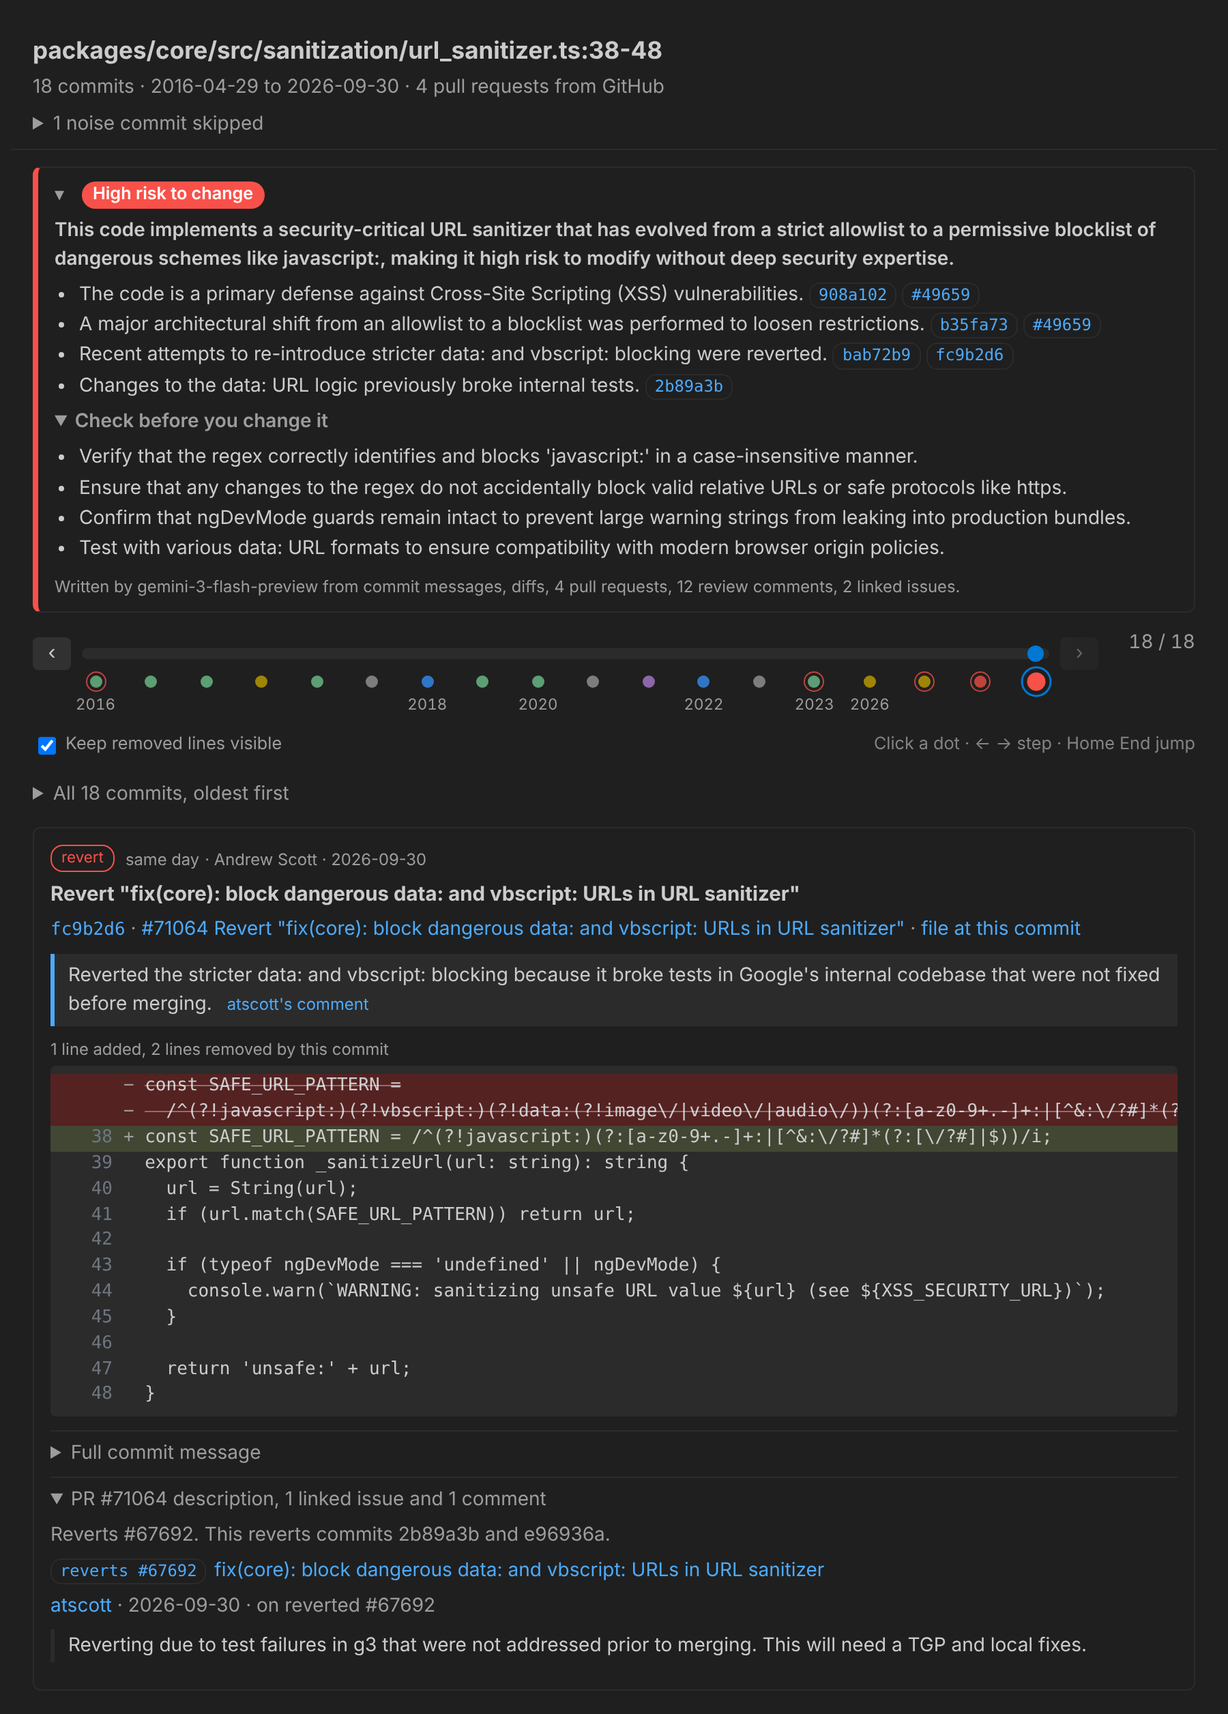
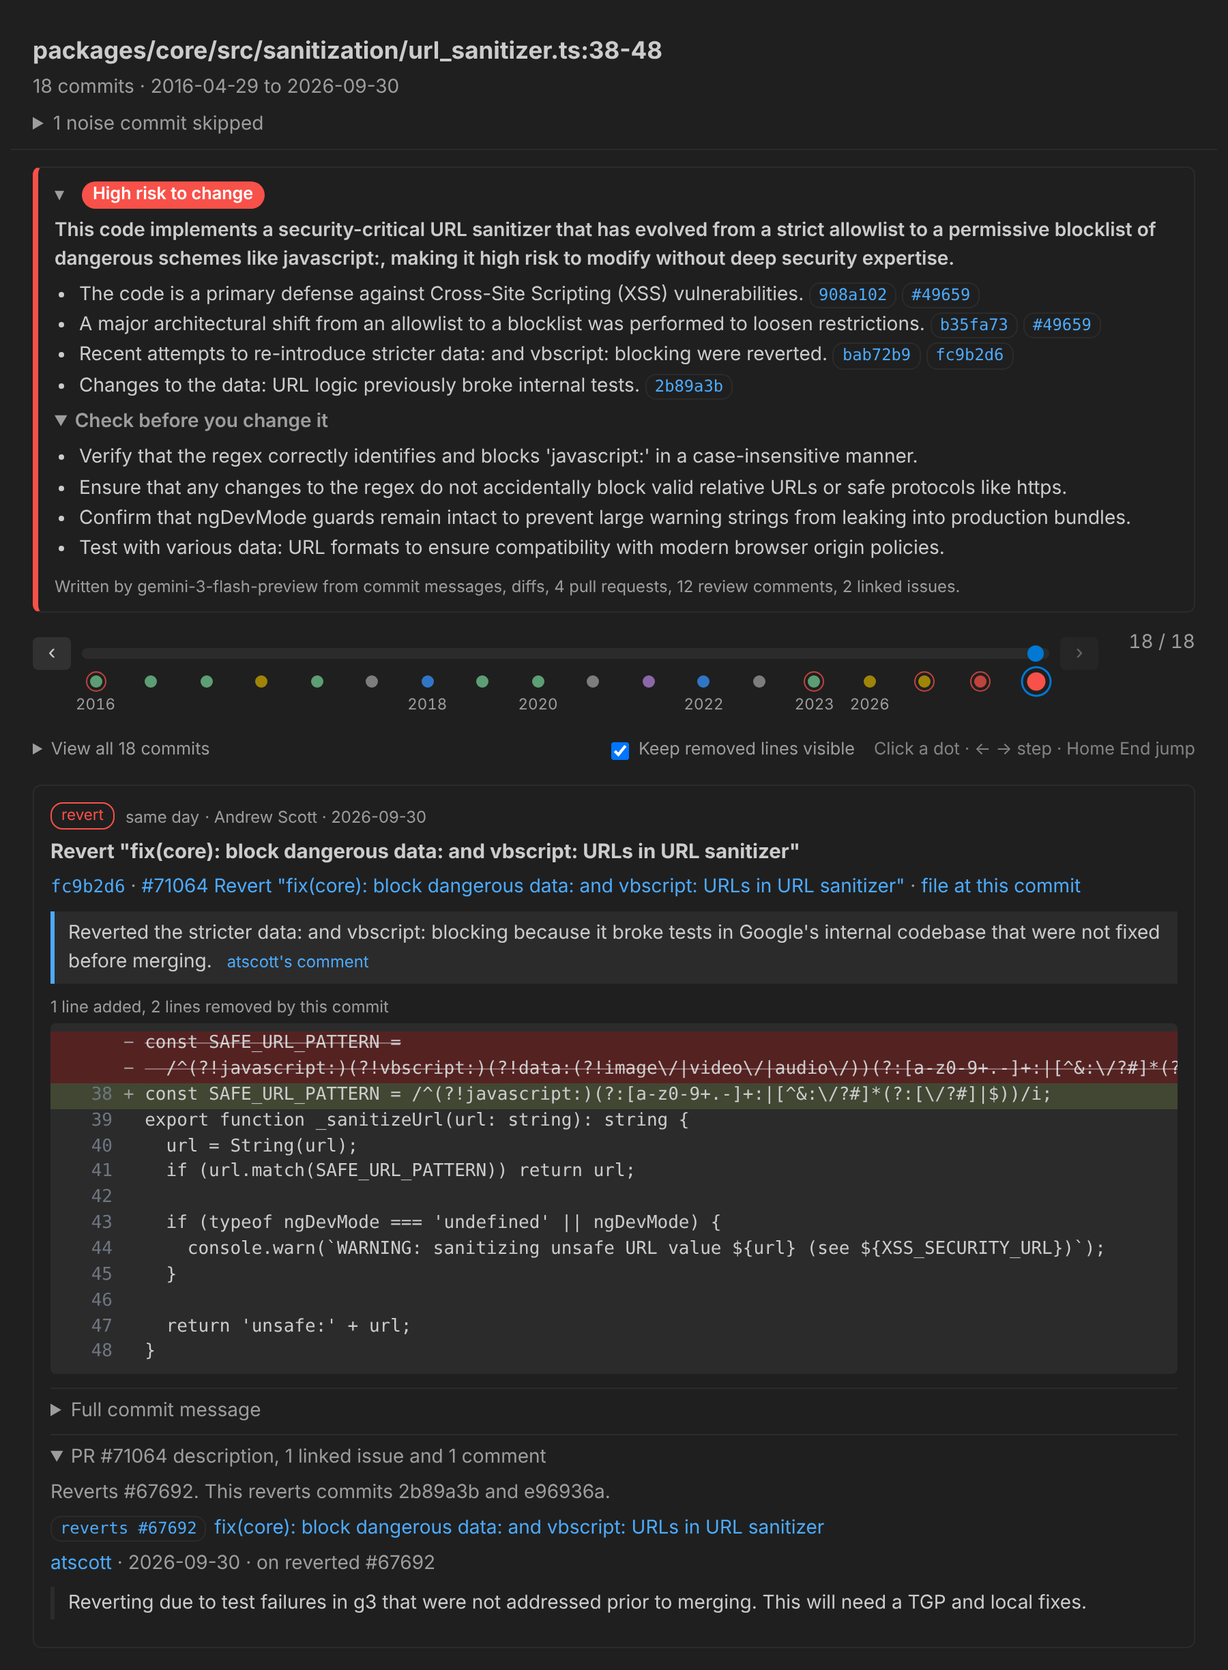
Jira bot comments left out; header and slider options tidied
Jira comments that only say a commit, branch or merge request mentioned
the ticket are dropped, and a new "Ignore comments from" setting
(codeArchaeologist.jiraIgnoreAuthors, JIRA_IGNORE_AUTHORS) drops other
bots by display name, username or email.

The header no longer counts pull requests. "View all N commits" now
shares one line with the removed-lines checkbox and key hints, which
are right-aligned. README and screenshots updated.

Claude-Session: https://claude.ai/code/session_01DTUt9knqNsrbjQCodiiSHk

diff --git a/packages/core/src/jira.ts b/packages/core/src/jira.ts
@@ -10,6 +10,8 @@ export type JiraOptions = {
   token?: string;
   /** Project keys to match, e.g. ["PAY", "CORE"]. Empty matches any ABC-123, minus a few that are rarely tickets. */
   projects?: string[];
+  /** Comment authors to leave out, by display name, username or email, e.g. ["gitlab-bot"]. Case does not matter. */
+  ignoreAuthors?: string[];
   signal?: AbortSignal;
   onProgress?: (message: string) => void;
   /** Requests in flight at once. */
@@ -36,6 +38,22 @@ export function jiraKeys(text: string, projects: string[] = []): string[] {
     out.add(`${project}-${m[2]}`);
   }
   return [...out];
+}
+
+/** "gitlab-bot, Jenkins CI" → ["gitlab-bot", "Jenkins CI"]: names may hold spaces, so only commas, semicolons and new lines split. */
+export function parseNameList(text: string | undefined): string[] {
+  return (text ?? '')
+    .split(/[,;\n]+/)
+    .map((n) => n.trim())
+    .filter(Boolean);
+}
+
+/**
+ * A comment that only says a commit, branch or merge request mentioned the ticket, as the GitLab,
+ * GitHub and Bitbucket integrations post: "[Ann|…] mentioned this issue in [a commit of team/app|…]".
+ */
+export function isMentionNotice(body: string): boolean {
+  return /\bmentioned (?:this|the) (?:issue|ticket|work item) in (?:an? )?(?:\[?\s*)?(?:commit|branch|merge request|pull request|MR|PR)\b/i.test(body.slice(0, 300));
 }
 
 /** "PAY, core" → ["PAY", "CORE"]. */
@@ -121,7 +139,7 @@ export class JiraError extends Error {
   }
 }
 
-type ApiUser = { displayName?: string; name?: string; accountType?: string } | null | undefined;
+type ApiUser = { displayName?: string; name?: string; emailAddress?: string; accountType?: string } | null | undefined;
 type ApiComment = { id: string; body?: unknown; author?: ApiUser; created?: string };
 type ApiIssue = {
   key: string;
@@ -155,8 +173,10 @@ class JiraApi {
     const url = `${this.base}/browse/${issue.key}`;
     const comments = (f.comment?.comments ?? [])
       .map((c): Review | undefined => {
-        const body = clip(stripTemplate(text(c.body)), KEEP.commentChars);
-        if (!body || isBot(c.author)) return undefined;
+        const raw = text(c.body);
+        if (!raw || isBot(c.author) || this.ignored(c.author) || isMentionNotice(raw)) return undefined;
+        const body = clip(stripTemplate(raw), KEEP.commentChars);
+        if (!body) return undefined;
         return { author: who(c.author), body, url: `${url}?focusedCommentId=${c.id}`, ...(c.created && { date: c.created }) };
       })
       .filter((c): c is Review => c !== undefined)
@@ -173,6 +193,11 @@ class JiraApi {
       ...(body && { body }),
       comments,
     };
+  }
+
+  private ignored(user: ApiUser): boolean {
+    const names = new Set((this.options.ignoreAuthors ?? []).map((n) => n.trim().toLowerCase()).filter(Boolean));
+    return [user?.displayName, user?.name, user?.emailAddress].some((n) => n !== undefined && names.has(n.toLowerCase()));
   }
 
   /** GET a path under the REST API. Resolves undefined for 404 (no such ticket, or no access to it). */

diff --git a/packages/core/test/jira.test.ts b/packages/core/test/jira.test.ts
@@ -1,5 +1,5 @@
 import { describe, expect, test } from 'vitest';
-import { addJiraContext, buildStoryPrompt, checkJira, jiraBase, jiraKeys, parseProjectKeys, parseStory, type Timeline } from '../src/index.js';
+import { addJiraContext, buildStoryPrompt, checkJira, isMentionNotice, parseNameList, jiraBase, jiraKeys, parseProjectKeys, parseStory, type Timeline } from '../src/index.js';
 
 describe('jiraKeys', () => {
   test('finds keys once each, in order, and skips UTF-8 and friends', () => {
@@ -12,6 +12,14 @@ describe('jiraKeys', () => {
     expect(jiraKeys('PAY-1 CORE-2 OPS-3', ['pay', 'OPS'])).toEqual(['PAY-1', 'OPS-3']);
     expect(parseProjectKeys('PAY, core; ops  x-1')).toEqual(['PAY', 'CORE', 'OPS']);
   });
+});
+
+test('mention notices and ignored names', () => {
+  expect(isMentionNotice('Ann mentioned this issue in a commit of team/app on branch main')).toBe(true);
+  expect(isMentionNotice('[Ann|u] mentioned this issue in [merge request !31|u]')).toBe(true);
+  expect(isMentionNotice('Bo mentioned this issue in a branch of team/app')).toBe(true);
+  expect(isMentionNotice('As Dana mentioned, this issue is about rounding.')).toBe(false);
+  expect(parseNameList('gitlab-bot, Jenkins CI;\nx')).toEqual(['gitlab-bot', 'Jenkins CI', 'x']);
 });
 
 test('jiraBase normalises what people paste', () => {
@@ -57,6 +65,8 @@ describe('addJiraContext', () => {
         comments: [
           { id: '10', body: { type: 'doc', content: [{ type: 'paragraph', content: [{ type: 'text', text: 'Finance signed off.' }] }] }, author: { displayName: 'Dana' }, created: '2024-05-28T00:00:00.000+0000' },
           { id: '11', body: 'Build passed', author: { displayName: 'Jira Automation', accountType: 'app' } },
+          { id: '12', body: '[Ann Lee|https://gitlab.example.com/ann] mentioned this issue in [a commit of team/app|https://gitlab.example.com/c/1]:\n{quote}PAY-412 Round per line{quote}', author: { displayName: 'Ann Lee' } },
+          { id: '13', body: 'Deployed to staging.', author: { displayName: 'Deploy Robot', name: 'deployer' } },
         ],
       },
     },
@@ -76,7 +86,7 @@ describe('addJiraContext', () => {
 
   test('reads tickets from commit messages and PR descriptions, with Cloud basic auth', async () => {
     const { calls, fetch } = fakeJira({ '/issue/PAY-412': { status: 200, body: issue } });
-    const out = await addJiraContext(timeline, { url: 'https://acme.atlassian.net', email: 'me@acme.test', token: 'tok', fetch });
+    const out = await addJiraContext(timeline, { url: 'https://acme.atlassian.net', email: 'me@acme.test', token: 'tok', ignoreAuthors: ['DEPLOYER'], fetch });
     expect(calls.map((c) => c.url.split('?')[0])).toEqual([
       'https://acme.atlassian.net/rest/api/2/issue/PAY-412',
       'https://acme.atlassian.net/rest/api/2/issue/CORE-9',

diff --git a/packages/extension/media/panel.css b/packages/extension/media/panel.css
@@ -144,8 +144,19 @@ summary { cursor: pointer; color: var(--muted); }
 .controls .dot[class*='kind-'] { background: var(--kind); }
 
 .options { display: flex; flex-wrap: wrap; align-items: center; gap: 4px 14px; margin: 0 0 var(--gap); color: var(--muted); font-size: 0.9em; }
+.options-right { display: flex; flex-wrap: wrap; align-items: center; gap: 4px 14px; margin-left: auto; }
 .options label { display: inline-flex; align-items: center; gap: 4px; cursor: pointer; }
-.options .hint { margin-left: auto; opacity: 0.8; }
+.options .hint { opacity: 0.8; }
+/* Opened, the commit list takes the full width under its summary; the options stay on the summary's line when it is wide enough. */
+.options .history[open] { flex-basis: 100%; }
+@media (min-width: 620px) {
+  .options:has(.history[open]) { position: relative; }
+  .options:has(.history[open]) .options-right { position: absolute; top: 0; right: 0; min-height: 1.9em; }
+}
+@media (max-width: 619px) {
+  .options .history[open] { order: 2; }
+}
+.options .history ol { font-size: calc(1em / 0.9); color: var(--vscode-foreground); }
 
 .kind {
   display: inline-block; padding: 0 7px; border-radius: 9px; font-size: 0.8em; line-height: 1.6;
@@ -208,7 +219,6 @@ summary { cursor: pointer; color: var(--muted); }
 .ln { width: 3.5em; flex: none; text-align: right; padding-right: 8px; color: var(--vscode-editorLineNumber-foreground, var(--muted)); user-select: none; }
 .mark { width: 1.2em; flex: none; color: var(--muted); user-select: none; }
 
-.history { margin: 4px 0 10px; }
 .history > summary { padding: 4px 0; }
 .history ol { list-style: none; margin: 4px 0 0; padding: 0; max-height: 40vh; overflow-y: auto; position: relative; }
 .history li {

diff --git a/packages/extension/webview/main.ts b/packages/extension/webview/main.ts
@@ -132,7 +132,7 @@ function renderTimeline(t: Timeline) {
     'header',
     { class: 'summary' },
     el('h1', { text: `${t.file}:${start}-${end}` }),
-    el('p', { class: 'meta', text: `${plural(t.steps.length, 'commit')} · ${span}${t.context ? ` · ${plural(t.context.prs, forge(t).pr)} from ${forge(t).name}` : ''}` }),
+    el('p', { class: 'meta', text: `${plural(t.steps.length, 'commit')} · ${span}` }),
     noise,
   );
 
@@ -170,7 +170,7 @@ function renderTimeline(t: Timeline) {
   const list = el(
     'details',
     { class: 'history', attrs: view.commitsOpen ? { open: '' } : {} },
-    el('summary', { text: `All ${plural(t.steps.length, 'commit')}, oldest first` }),
+    el('summary', { text: `View all ${plural(t.steps.length, 'commit')}`, attrs: { title: 'Oldest first' } }),
     el(
       'ol',
       { attrs: { id: 'commit-list' } },
@@ -209,13 +209,18 @@ function renderTimeline(t: Timeline) {
       next,
       el('span', { class: 'position', attrs: { id: 'position' } }),
     ),
+    // One row: the commit list on the left, the diff option and key hints on the right.
     el(
       'div',
       { class: 'options' },
-      el('label', { attrs: { for: 'show-removed' } }, removedToggle, ' Keep removed lines visible'),
-      el('span', { class: 'hint', text: 'Click a dot · ← → step · Home End jump' }),
+      list,
+      el(
+        'div',
+        { class: 'options-right' },
+        el('label', { attrs: { for: 'show-removed' } }, removedToggle, ' Keep removed lines visible'),
+        el('span', { class: 'hint', text: 'Click a dot · ← → step · Home End jump' }),
+      ),
     ),
-    list,
     el('div', { attrs: { id: 'step' } }),
   );
 

diff --git a/packages/extension/src/extension.ts b/packages/extension/src/extension.ts
@@ -7,6 +7,7 @@ import {
   GitHubCache,
   modelClient,
   parseHeaders,
+  parseNameList,
   parseProjectKeys,
   type Provider,
   StoryCache,
@@ -67,12 +68,18 @@ export function activate(context: vscode.ExtensionContext): void {
   }
 
   /** Jira from settings, or undefined when no Jira URL is set. The token only ever goes to that URL. */
-  async function jiraSettings(): Promise<{ url: string; email?: string; token?: string; projects: string[] } | undefined> {
+  async function jiraSettings(): Promise<{ url: string; email?: string; token?: string; projects: string[]; ignoreAuthors: string[] } | undefined> {
     const config = vscode.workspace.getConfiguration('codeArchaeologist');
     const url = config.get<string>('jiraUrl')?.trim();
     if (!url) return undefined;
     const email = config.get<string>('jiraEmail')?.trim() || process.env.JIRA_EMAIL || undefined;
-    return { url, email, token: await jiraToken(), projects: parseProjectKeys(config.get<string>('jiraProjects')) };
+    return {
+      url,
+      email,
+      token: await jiraToken(),
+      projects: parseProjectKeys(config.get<string>('jiraProjects')),
+      ignoreAuthors: parseNameList(config.get<string>('jiraIgnoreAuthors')),
+    };
   }
 
   /** Reads PRs (or GitLab merge requests), reviews, issues and Jira tickets for the raw trace, then writes the story from all of it. */

diff --git a/packages/cli/src/cli.ts b/packages/cli/src/cli.ts
@@ -10,6 +10,7 @@ import {
   describeTimeline,
   modelClient,
   parseHeaders,
+  parseNameList,
   parseProjectKeys,
   StoryCache,
   trace,
@@ -31,7 +32,8 @@ Options:
   --gitlab-url <url> Your self-hosted GitLab; GITLAB_TOKEN is sent only there and to gitlab.com
   --jira-url <url>   Read Jira tickets named in commits and PRs, e.g. PAY-412 (or JIRA_URL).
                      JIRA_TOKEN is sent only there; Jira Cloud also needs JIRA_EMAIL.
-                     JIRA_PROJECTS="PAY,CORE" limits which keys count
+                     JIRA_PROJECTS="PAY,CORE" limits which keys count, and
+                     JIRA_IGNORE_AUTHORS="gitlab-bot, Jenkins" drops those commenters
   --story            Ask an LLM for per-commit notes, a summary and a risk verdict
                      (Gemini by default, with GEMINI_API_KEY)
   --provider <name>  gemini (default) or openai, for any OpenAI-compatible API
@@ -118,6 +120,7 @@ async function main(argv: string[]): Promise<number> {
       email: process.env.JIRA_EMAIL || undefined,
       token: process.env.JIRA_TOKEN || undefined,
       projects: parseProjectKeys(process.env.JIRA_PROJECTS),
+      ignoreAuthors: parseNameList(process.env.JIRA_IGNORE_AUTHORS),
       onProgress: progress,
     });
     if (timeline.jira?.error && !values.json) console.error(`warning: ${timeline.jira.error}`);

diff --git a/packages/extension/src/settings.ts b/packages/extension/src/settings.ts
@@ -75,6 +75,7 @@ export class SettingsPanel {
     await config.update('jiraUrl', values.jiraUrl.trim() || undefined, target);
     await config.update('jiraEmail', values.jiraEmail.trim() || undefined, target);
     await config.update('jiraProjects', values.jiraProjects.trim() || undefined, target);
+    await config.update('jiraIgnoreAuthors', values.jiraIgnore.trim() || undefined, target);
     for (const [name, value] of Object.entries(secrets) as [SecretName, string | null][]) {
       if (value === null) await this.host.secrets.delete(SECRETS[name]);
       else if (value.trim()) await this.host.secrets.store(SECRETS[name], value.trim());
@@ -93,6 +94,7 @@ export class SettingsPanel {
       jiraUrl: config.get<string>('jiraUrl') ?? '',
       jiraEmail: config.get<string>('jiraEmail') ?? '',
       jiraProjects: config.get<string>('jiraProjects') ?? '',
+      jiraIgnore: config.get<string>('jiraIgnoreAuthors') ?? '',
     };
     const where = async (name: SecretName, ...env: (string | undefined)[]) =>
       (await this.host.secrets.get(SECRETS[name])) ? 'saved' : env.some(Boolean) ? 'env' : 'none';

diff --git a/packages/extension/webview/settings.ts b/packages/extension/webview/settings.ts
@@ -169,6 +169,11 @@ function render(): void {
       field('Email', input('jiraEmail', v.jiraEmail, 'you@company.com', (value) => (v.jiraEmail = value)), hint('Jira Cloud only. Leave empty for Jira Data Center or Server.')),
       secretField('jiraToken', 'API token', 'JIRA_TOKEN', 'Jira Cloud: an API token from id.atlassian.com/manage-profile/security/api-tokens. Data Center or Server: a personal access token.'),
       field('Project keys', input('jiraProjects', v.jiraProjects, 'PAY, CORE (optional)', (value) => (v.jiraProjects = value)), hint('Only match these keys. Leave empty to match any ABC-123 pattern.')),
+      field(
+        'Ignore comments from',
+        input('jiraIgnore', v.jiraIgnore, 'gitlab-bot, Jenkins (optional)', (value) => (v.jiraIgnore = value)),
+        hint('Display names, usernames or emails, comma-separated. "Mentioned this issue in a commit" notices are always left out.'),
+      ),
       el(
         'div',
         { class: 'row' },

diff --git a/packages/core/src/index.ts b/packages/core/src/index.ts
@@ -38,4 +38,4 @@ export {
   type ForgeRef,
 } from './github.js';
 export { addGitLabContext, parseGitLabRemote, gitlabLinkedRefs, mrFromMessage, tokenAllowed, GitLabError, type GitLabOptions } from './gitlab.js';
-export { addJiraContext, jiraKeys, jiraBase, checkJira, parseProjectKeys, JiraError, type JiraOptions } from './jira.js';
+export { addJiraContext, jiraKeys, jiraBase, checkJira, parseProjectKeys, parseNameList, isMentionNotice, JiraError, type JiraOptions } from './jira.js';

diff --git a/packages/extension/src/settingsMessages.ts b/packages/extension/src/settingsMessages.ts
@@ -9,6 +9,8 @@ export type SettingsValues = {
   jiraEmail: string;
   /** Comma-separated project keys to match, e.g. "PAY, CORE". Empty matches any key. */
   jiraProjects: string;
+  /** Comma-separated comment authors to leave out, e.g. "gitlab-bot, Jenkins". */
+  jiraIgnore: string;
 };
 
 /** `llmHeaders` is extra headers for LLM requests, "Name: value" per line: they may carry auth, so they are kept as a secret. */

diff --git a/README.md b/README.md
@@ -25,8 +25,8 @@ cited "safe to change?" verdict near the top.
 The panel on Angular's URL sanitizer (`url_sanitizer.ts` lines 38-48, the [demo snippet](#demo-snippet)),
 on the latest commit: the 2026 revert of a stricter `data:` and `vbscript:` check. The file and
 commit count stay pinned at the top, with the verdict and its cited reasons under them; clicking the
-verdict's header row folds the reasons away. Under the slider, **All 18 commits, oldest first** opens
-a list of every commit to jump to. The commit
+verdict's header row folds the reasons away. On the line under the slider, **View all 18 commits** opens
+a list of every commit to jump to, with the diff option and key hints on the right. The commit
 card puts the author and date beside how long after the previous change it came, links the
 commit, its pull request and the file at that commit on one line, then the AI note and the diff
 with removed lines kept visible. Below the diff, dropdowns hold the full commit message, the pull
@@ -38,7 +38,7 @@ from the public pull requests.
 ![The Code Archaeologist panel: pinned file header, a high-risk verdict with cited reasons, the commit timeline, and the revert commit's author and date, links, note, diff and an open pull request dropdown](docs/panel.png)
 
 The settings screen (**Code Archaeologist: Open settings screen**), with the default Gemini provider, a
-saved key and GitHub token, and Jira Cloud set up with **Test connection** passing. Keys, tokens and
+saved key and GitHub token, and Jira Cloud set up with a bot's comments ignored and **Test connection** passing. Keys, tokens and
 extra headers are never shown.
 
 ![The Code Archaeologist settings screen: quick setup presets, AI model, extra request headers, and the GitHub, GitLab and Jira sections](docs/settings.png)
@@ -71,6 +71,7 @@ are kept in VS Code secret storage, and **Test connection** checks them before y
 | Jira URL | **Must**, to use Jira | Your Jira, e.g. `https://yourcompany.atlassian.net`. Ticket keys like `PAY-412` in commit messages and PR or MR titles and descriptions are read from here. |
 | Jira email and API token | **Should**, for private Jira | Jira Cloud: your Atlassian email plus an API token from [id.atlassian.com](https://id.atlassian.com/manage-profile/security/api-tokens). Data Center or Server: leave the email empty and use a personal access token. Only ever sent to the Jira URL. Also read from `JIRA_EMAIL` and `JIRA_TOKEN`. |
 | Jira project keys | Optional | Only match these keys, e.g. `PAY, CORE`. Empty matches any `ABC-123` except a few that are rarely tickets, like `UTF-8`. |
+| Ignore Jira comments from | Optional | Comment authors to leave out, by display name, username or email, e.g. `gitlab-bot, Jenkins`. "Mentioned this issue in a commit" notices are always left out. Also read from `JIRA_IGNORE_AUTHORS`. |
 
 ## Status
 
@@ -190,6 +191,10 @@ with an API token; Jira Data Center and Server take a personal access token alon
 kept in secret storage (or `JIRA_TOKEN`) and only ever sent to the Jira URL. Without one, only
 public tickets can be read. Keys like `UTF-8` or `SHA-256` are ignored; to match only your teams'
 projects, set `codeArchaeologist.jiraProjects` (`JIRA_PROJECTS`) to e.g. `PAY, CORE`.
+Comments that only say a commit, branch or merge request mentioned the ticket (as the GitLab,
+GitHub and Bitbucket integrations post) are left out, as are Jira's own automation and app
+accounts; list any other bots in `codeArchaeologist.jiraIgnoreAuthors` (`JIRA_IGNORE_AUTHORS`),
+e.g. `gitlab-bot, Jenkins`.
 **Test connection** checks the URL and credentials and says who Jira takes you for.
 
 ## AI story

diff --git a/packages/extension/README.md b/packages/extension/README.md
@@ -7,7 +7,7 @@ editor with every commit that touched those lines, oldest first:
   lines that commit removed folding away, then the lines it added growing in.
 - Dots are coloured by kind of change
   (feature, fix, revert, refactor, docs) with year labels, and the commits the verdict cites are
-  ringed. **All N commits, oldest first** under the slider opens a list of every commit to pick from.
+  ringed. **View all N commits** under the slider opens a list of every commit to pick from.
 - Each step says who made the change, when, and how long after the previous change it came, links
   to the commit and to the file as it was at that commit, and keeps removed lines on screen as a
   diff (untick **Keep removed lines visible** to hide them).
@@ -52,7 +52,8 @@ Jira tickets named in commit messages and pull request or merge request titles a
 (like `PAY-412`) become evidence too. On the settings screen, set the Jira URL, and for Jira Cloud
 your Atlassian email with an API token, or for Data Center or Server a personal access token. The
 token is kept in secret storage and only ever sent to that Jira URL. Optional project keys limit
-which keys count; **Test connection** checks it all.
+which keys count, and "Ignore comments from" leaves out bots by name ("mentioned this issue in a
+commit" notices are always left out); **Test connection** checks it all.
 
 The LLM API URL and provider, the GitLab URL and the Jira URL are read from your user settings only, never from a
 workspace's `.vscode/settings.json`, so a repository you open cannot send your keys elsewhere.
